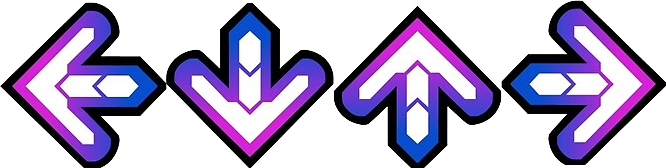
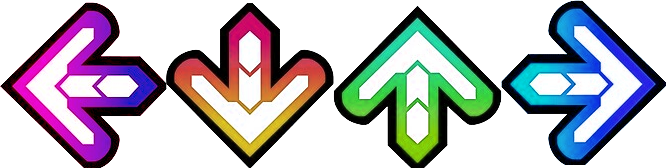
Changed Arrow Colors and New Pause Keybinds

Changed region(s): [[0.0, 0.0298, 0.991, 1.0]]

diff --git a/src/main.js b/src/main.js
@@ -78,13 +78,29 @@ const jsonLoaded = json =>
     
 }
 
+//pausing with space and esc
+const keyPauseCheck = (e) =>
+{
+   if(e.keyCode == 32 || e.keyCode == 27){
+    // if track is playing, pause it
+    audio.pauseCurrentSound();
+    e.target.dataset.playing = "no";    // our css will set the text to "Play"
+   }
+   else if(e.keyCode == 32 || e.keyCode == 27)
+   {
+    // if track is currently paused, play it
+    audio.playCurrentSound();
+    e.target.dataset.playing = "yes";   // our css will set the text to "Pause"
+   }
+}
+
 const loop = () => {
 
-    // requestAnimationFrame(loop);
     setTimeout(() => {
       loop()
     }, 1000/60);
     canvas.draw(drawParams);
+    keyPauseCheck();
 
 }
 
@@ -118,13 +134,17 @@ const setupUI = (canvasElement) =>{
         audio.playCurrentSound();
         e.target.dataset.playing = "yes";   // our css will set the text to "Pause"
     }
-    // if track is playing, pause it
+    
     else
     {
         audio.pauseCurrentSound();
         e.target.dataset.playing = "no";    // our css will set the text to "Play"
     }
   };
+
+
+
+
 
   // C - hookup volume slider and label
   let volumeSlider = document.querySelector("#slider-volume");

diff --git a/index.html b/index.html
@@ -208,7 +208,7 @@ button:focus {
     </section>
 
     <section>
-      <label> Press play and use the arrow keys or DFJK  to play! </label>
+      <label> Press play and use the arrow keys or DFJK  to play!<br>Press SPACE or ESC to pause.</label>
     </section>
 
     <section>

diff --git a/src/canvas.js b/src/canvas.js
@@ -109,6 +109,10 @@ const keyPressedValueCheck = (e) =>
 }
 //checks if key was pressed 
 addEventListener('keydown', keyPressedValueCheck, false);
+
+//keeps track if the last key pressed was a hit or a miss
+let successfulHit;
+
 //#endregion variables
 
 
